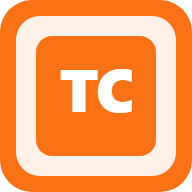
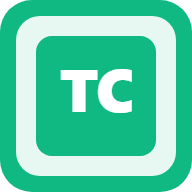
forest_default

diff --git a/index.html b/index.html
@@ -72,7 +72,7 @@
         </div>
         <a class="landing-stats-link" href="stats.html" data-i18n="landing.stats">Stats des rooms</a>
         <a class="landing-about-link" href="presentation.html" data-i18n="landing.about">En savoir plus sur TeamCel</a>
-        <small class="landing-version">v0.0.24</small>
+        <small class="landing-version">v0.0.25</small>
     </div>
 
     <!-- CHAT SCREEN -->
@@ -223,9 +223,9 @@
 
         /* ===== THEMES ===== */
         var THEMES = [
-            { id: '', label: 'Classique', color: '#f97316' },
+            { id: '', label: 'Classique', color: '#10b981' },
+            { id: 'orange', label: 'Orange', color: '#f97316' },
             { id: 'ocean', label: 'Océan', color: '#0ea5e9' },
-            { id: 'forest', label: 'Forêt', color: '#10b981' },
             { id: 'lavender', label: 'Lavande', color: '#8b5cf6' },
             { id: 'coral', label: 'Corail', color: '#f43f5e' },
             { id: 'night', label: 'Nuit', color: '#fb923c' }
@@ -633,20 +633,21 @@
             var qrSrc = cachedPrintDataUrl || '';
             var title = 'TeamCel';
             var subtitle = I18N.t('print.subtitle');
+            var accent = getComputedStyle(document.documentElement).getPropertyValue('--primary').trim() || '#10b981';
 
             var html = '<html><head><title>' + title + '</title>' +
                 '<meta name="viewport" content="width=device-width, initial-scale=1">' +
                 '<style>body{font-family:-apple-system,Segoe UI,system-ui,sans-serif;margin:0;padding:20px;color:#1c1917;text-align:center}hr{border:none;border-top:1px dashed #d6d3d1;margin:12px 0}</style></head><body>';
 
             if (type === 'a4') {
-                html += '<div style="background:#f97316;padding:40px 50px 30px;text-align:center">' +
+                html += '<div style="background:'+accent+';padding:40px 50px 30px;text-align:center">' +
                     '<h1 style="font-size:42px;font-weight:800;color:#fff;margin:0">'+title+'</h1>' +
                     '<p style="font-size:16px;color:rgba(255,255,255,0.85);margin:0">'+subtitle+'</p></div>' +
                     '<div style="padding:30px 60px;text-align:center">' +
                     '<div style="font-size:34px;font-weight:900;color:#1c1917;word-break:break-word;margin-bottom:24px">'+currentRoom+'</div>' +
                     '<img src="'+qrSrc+'" style="border:2px solid #e7e5e4;border-radius:8px;padding:10px;background:#fff" width="220"><br>' +
                     '<div style="font-family:monospace;font-size:12px;background:#f5f5f4;padding:8px 16px;border-radius:4px;margin:16px auto;display:inline-block;word-break:break-all;color:#78716c">'+url+'</div>' +
-                    '<div style="font-size:20px;font-weight:800;color:#f97316;-webkit-text-stroke:0.5px #1c1917;margin-top:20px">'+I18N.t('print.slogan')+'</div>' +
+                    '<div style="font-size:20px;font-weight:800;color:'+accent+';-webkit-text-stroke:0.5px #1c1917;margin-top:20px">'+I18N.t('print.slogan')+'</div>' +
                     '</div>' +
                     '<div style="border-top:1px solid #e7e5e4;padding:14px 50px;font-size:10px;color:#a8a29e">teamcel.app &mdash; '+I18N.t('print.subtitle')+'</div>';
 
@@ -657,7 +658,7 @@
                     '.grid{display:grid;grid-template-columns:repeat(2,1fr);grid-template-rows:repeat(8,1fr);height:100vh;width:100%}' +
                     '.card{box-sizing:border-box;border:1px solid #e7e5e4;display:flex;align-items:stretch;text-align:left;padding:12px;overflow:hidden}' +
                     '.card-info{flex:1;min-width:0;display:flex;flex-direction:column;padding-right:10px}' +
-                    '.card-brand{font-size:14px;font-weight:800;color:#f97316;white-space:nowrap}' +
+                    '.card-brand{font-size:14px;font-weight:800;color:'+accent+';white-space:nowrap}' +
                     '.card-brand span{color:#1c1917}' +
                     '.card-room{flex:1;display:flex;align-items:center;font-size:26px;font-weight:900;color:#1c1917;line-height:1;word-break:break-word;margin:6px 0}' +
                     '.card-url{font-family:monospace;font-size:6px;color:#78716c;word-break:break-all;line-height:1.1}' +
@@ -686,7 +687,7 @@
                     '<img src="'+qrSrc+'" width="140"><br>' +
                     '<div style="font-size:8px;word-break:break-all;color:#78716c;margin:10px 0">'+url+'</div>' +
                     '<hr>' +
-                    '<div style="font-size:9px;font-weight:800;color:#f97316;-webkit-text-stroke:0.5px #1c1917;text-align:center;margin:8px 0">'+I18N.t('print.slogan')+'</div>' +
+                    '<div style="font-size:9px;font-weight:800;color:'+accent+';-webkit-text-stroke:0.5px #1c1917;text-align:center;margin:8px 0">'+I18N.t('print.slogan')+'</div>' +
                     '<p style="font-size:7px;color:#a8a29e">teamcel.app</p></div>';
             }
 

diff --git a/style.css b/style.css
@@ -1,4 +1,20 @@
 :root {
+    --primary: #10b981;
+    --primary-dim: #059669;
+    --bg: #ecfdf5;
+    --card-bg: #ffffff;
+    --text: #064e3b;
+    --text-dim: #6b7280;
+    --border: #d1fae5;
+    --bubble-self: #10b981;
+    --bubble-self-text: #ffffff;
+    --bubble-other: #d1fae5;
+    --bubble-other-text: #064e3b;
+    --safe-bottom: env(safe-area-inset-bottom, 0px);
+}
+
+/* ===== THEMES ===== */
+html[data-theme="orange"] {
     --primary: #f97316;
     --primary-dim: #ea580c;
     --bg: #fafaf9;
@@ -10,10 +26,8 @@
     --bubble-self-text: #ffffff;
     --bubble-other: #f5f5f4;
     --bubble-other-text: #1c1917;
-    --safe-bottom: env(safe-area-inset-bottom, 0px);
 }
 
-/* ===== THEMES ===== */
 html[data-theme="ocean"] {
     --primary: #0ea5e9;
     --primary-dim: #0284c7;
@@ -896,7 +910,7 @@ header {
 }
 
 .print-a4-header {
-    background: #f97316;
+    background: var(--primary);
     padding: 18mm 20mm 14mm;
     text-align: center;
 }
@@ -953,7 +967,7 @@ header {
 .print-a4-slogan {
     font-size: 1.4rem;
     font-weight: 800;
-    color: #f97316;
+    color: var(--primary);
     -webkit-text-stroke: 0.5px #1c1917;
     text-align: center;
     margin: 0 auto;
@@ -968,7 +982,7 @@ header {
     width: 10mm;
     height: 10mm;
     border-radius: 50%;
-    background: #f97316;
+    background: var(--primary);
     color: #fff;
     font-weight: 700;
     font-size: 1.1rem;
@@ -1040,7 +1054,7 @@ header {
 .print-card-left h3 {
     font-size: 1.3rem;
     font-weight: 800;
-    color: #f97316;
+    color: var(--primary);
     margin: 0 0 1mm;
     letter-spacing: -0.02em;
     line-height: 1;
@@ -1062,7 +1076,7 @@ header {
 }
 
 .print-card-steps strong {
-    color: #f97316;
+    color: var(--primary);
 }
 
 .print-card-right {

diff --git a/presentation.html b/presentation.html
@@ -8,13 +8,13 @@
     <script src="i18n.js"></script>
     <style>
         :root {
-            --primary: #f97316;
-            --primary-dim: #ea580c;
-            --bg: #fafaf9;
+            --primary: #10b981;
+            --primary-dim: #059669;
+            --bg: #ecfdf5;
             --card-bg: #ffffff;
-            --text: #1c1917;
-            --text-dim: #78716c;
-            --border: #e7e5e4;
+            --text: #064e3b;
+            --text-dim: #6b7280;
+            --border: #d1fae5;
         }
 
         * { box-sizing: border-box; margin: 0; padding: 0; }
@@ -289,7 +289,7 @@
         /* ===== PATREON ===== */
         .patreon-box {
             background: #fff;
-            border: 2px solid #f97316;
+            border: 2px solid #10b981;
             border-radius: 12px;
             padding: 1.5rem;
             text-align: center;
@@ -310,14 +310,14 @@
         .patreon-btn {
             display: inline-block;
             padding: 0.7rem 1.5rem;
-            background: #f97316;
+            background: #10b981;
             color: #fff;
             font-weight: 700;
             border-radius: 99px;
             text-decoration: none;
         }
 
-        .patreon-btn:hover { background: #ea580c; }
+        .patreon-btn:hover { background: #059669; }
 
         /* ===== FOOTER ===== */
         footer {

diff --git a/CHANGELOG.md b/CHANGELOG.md
@@ -1,5 +1,15 @@
 # Changelog
 
+## 0.0.25 (2026-08-12)
+
+### Changed
+- **Couleur par défaut = vert** — la teinte d'accent par défaut (icônes, barre de statut/notifications via `theme_color`, boutons, bulles, bannière de mise à jour) passe au vert forêt `#10b981` (3e thème). L'orange `#f97316` devient un **thème optionnel** dédié « Orange » dans le sélecteur.
+- **Impression** — les exemples d'impression (A4, carte, 58mm) suivent désormais la teinte active du thème (`accent` / `var(--primary)`).
+- **Manifest** — `theme_color` passé en `#10b981` (barre de navigateur/notif).
+- **Icônes** — SVG + PNG (192/512) régénérés en vert.
+- **Presentation** — palette par défaut vert forêt.
+- **Version** : `0.0.25`
+
 ## 0.0.24 (2026-08-12)
 
 ### Added
